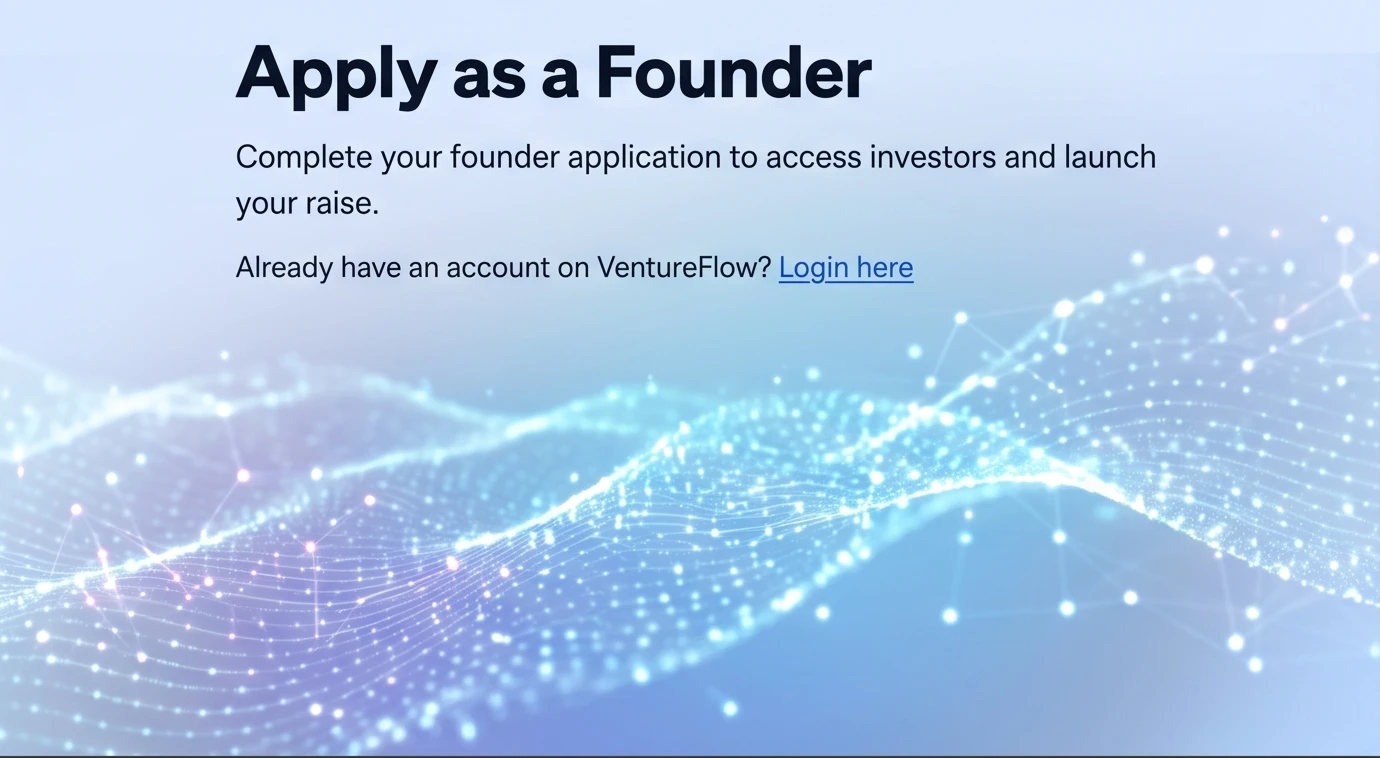
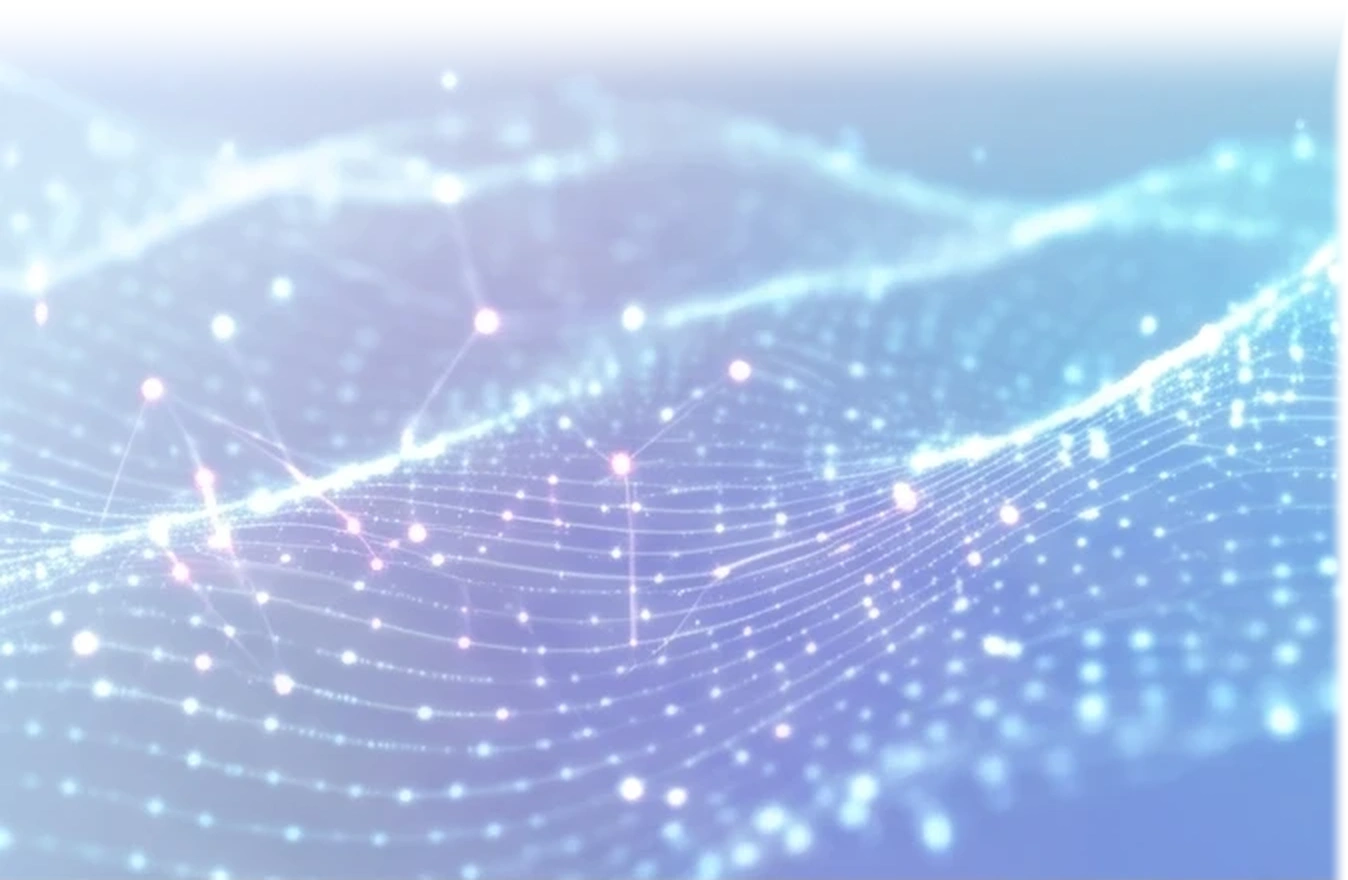
feat(auth): restore reference platform login design and purge legacy extraction notes

diff --git a/components/site/auth-layout.tsx b/components/site/auth-layout.tsx
@@ -29,11 +29,19 @@ export interface AuthLayoutProps {
   children: ReactNode;
 }
 
-/** Soft pastel wash + thin iridescent ribbons that run behind the card. */
+/** Soft pastel wash + thin iridescent ribbons that run behind the card + left-hand light-blue atmospheric tint. */
 function AuthBackground() {
   return (
     <div className="pointer-events-none absolute inset-0 -z-10 overflow-hidden" aria-hidden="true">
+      {/* Right base pastel gradient */}
       <div className="absolute inset-0 bg-[linear-gradient(120deg,#eef2ff_0%,#f5f8fe_34%,#f4f8fe_64%,#ecf3fe_100%)]" />
+
+      {/* Left-hand light blue atmospheric tint matching reference */}
+      <div className="hidden lg:block absolute inset-y-0 left-0 w-[48.8%] bg-[linear-gradient(180deg,#d8e7fe_0%,#e4effe_45%,#edf4fe_100%)]" />
+
+      {/* Center vertical dividing rule matching reference */}
+      <div className="hidden lg:block absolute left-[48.8%] inset-y-0 w-px bg-slate-200/80" />
+
       {/* cool halo behind the card */}
       <div className="absolute right-[-6%] top-[8%] h-[80%] w-[58%] rounded-full bg-[radial-gradient(closest-side,rgba(160,184,255,0.30),rgba(196,210,255,0.14)_55%,transparent_100%)]" />
       {/* faint blush bottom-right */}
@@ -97,30 +105,30 @@ function AuthBackground() {
   );
 }
 
-/** "VentureFlow by Veyron X" lock-up — matching reference design */
-function AuthBrandPill() {
+/** "VentureFlow by Veyron X" lock-up pill — matching reference design */
+export function AuthBrandPill() {
   return (
     <Link
       href="/"
       aria-label="VentureFlow by Veyron X home"
-      className="group inline-flex items-center gap-3.5 py-1 text-slate-900 transition-opacity hover:opacity-95"
+      className="group inline-flex items-center gap-2.5 rounded-full border border-slate-200/80 bg-white/95 px-3.5 py-1.5 sm:px-4 sm:py-2 text-slate-900 shadow-[0_2px_12px_rgba(0,0,0,0.05)] backdrop-blur-xs transition-all hover:bg-white hover:shadow-sm"
     >
-      <span className="relative block h-11 w-11 sm:h-13 sm:w-13 shrink-0 transition-transform group-hover:scale-105 shadow-md rounded-full overflow-hidden">
+      <span className="relative block size-7 sm:size-8 shrink-0 overflow-hidden rounded-full shadow-2xs transition-transform group-hover:scale-105">
         <Image
           src="/logo/vf-mark.png"
-          alt="VentureFlow by Veyron X"
-          width={56}
-          height={56}
+          alt="VentureFlow"
+          width={32}
+          height={32}
           priority
-          className="h-full w-full rounded-full object-cover"
+          className="size-full rounded-full object-cover"
         />
       </span>
-      <span className="flex select-none items-baseline gap-2 text-slate-900" aria-hidden="true">
-        <span className="text-2xl sm:text-[1.75rem] font-extrabold tracking-tight text-slate-900">VentureFlow</span>
-        <span className="text-base sm:text-lg font-medium text-slate-500">by</span>
-        <span className="inline-flex items-baseline gap-1 text-2xl sm:text-[1.75rem] font-extrabold tracking-tight text-slate-900">
+      <span className="flex select-none items-baseline gap-1.5 text-slate-900" aria-hidden="true">
+        <span className="text-base sm:text-lg font-bold tracking-tight text-slate-900">VentureFlow</span>
+        <span className="text-xs sm:text-sm font-normal text-slate-400">by</span>
+        <span className="inline-flex items-baseline gap-0.5 text-base sm:text-lg font-bold tracking-tight text-slate-900">
           <span>Veyron</span>
-          <svg viewBox="0 0 24 24" className="h-[0.8em] w-[0.8em] inline-block fill-current translate-y-[0.05em]" aria-hidden="true">
+          <svg viewBox="0 0 24 24" className="h-[0.75em] w-[0.75em] inline-block fill-current translate-y-[0.05em]" aria-hidden="true">
             <path d="M18.244 2.25h3.308l-7.227 8.26 8.502 11.24H16.17l-5.214-6.817L4.99 21.75H1.68l7.73-8.835L1.254 2.25H8.08l4.713 6.231zm-1.161 17.52h1.833L7.084 4.126H5.117z" />
           </svg>
         </span>
@@ -159,14 +167,14 @@ export function AuthLayout({
         <AuthBrandPill />
       </header>
 
-      <main className="relative z-10 grid flex-1 grid-cols-1 gap-8 px-4 pb-8 pt-4 sm:px-8 lg:grid-cols-[46fr_54fr] lg:items-center lg:gap-6 lg:px-10 lg:py-2 lg:overflow-hidden">
+      <main className="relative z-10 grid flex-1 grid-cols-1 gap-8 px-4 pb-8 pt-4 sm:px-8 lg:grid-cols-[48.8fr_51.2fr] lg:items-center lg:gap-0 lg:px-0 lg:py-2 lg:overflow-hidden">
         {/* LEFT — role-specific heading & glowing network wave */}
-        <section className="relative flex flex-col text-left lg:pl-[min(5vw,90px)] lg:pr-6 z-10">
+        <section className="relative flex flex-col text-left lg:pl-[min(6vw,100px)] lg:pr-10 z-10">
           {eyebrow && (
             <p className="mb-2 text-xs font-semibold uppercase tracking-wider text-blue-600">{eyebrow}</p>
           )}
 
-          <h1 className="text-3xl sm:text-4xl lg:text-[2.75rem] font-extrabold leading-[1.15] tracking-tight text-slate-900">
+          <h1 className="text-3xl sm:text-4xl lg:text-[2.65rem] font-extrabold leading-[1.15] tracking-tight text-slate-900">
             {title}
           </h1>
 
@@ -219,15 +227,15 @@ export function AuthLayout({
         </section>
 
         {/* RIGHT — white authentication card */}
-        <section className="lg:self-center lg:pr-[min(5vw,90px)] flex justify-center lg:justify-end z-10">
-          <div className="relative w-full max-w-[560px]">
+        <section className="lg:self-center lg:pr-[min(6vw,100px)] lg:pl-10 flex justify-center lg:justify-end z-10">
+          <div className="relative w-full max-w-[550px]">
             <AuthCard>{children}</AuthCard>
           </div>
         </section>
       </main>
 
       {/* VentureFlow glowing wave artwork: anchored to bottom-left */}
-      <AuthArtwork className="hidden sm:block absolute bottom-0 left-0 w-full max-w-[48vw] pointer-events-none z-0" />
+      <AuthArtwork className="hidden sm:block absolute bottom-0 left-0 w-full max-w-[48.8vw] pointer-events-none z-0" />
     </div>
   );
 }

diff --git a/components/sections/Hero.tsx b/components/sections/Hero.tsx
@@ -77,7 +77,7 @@ const cards: Card[] = [
   {
     key: "google",
     side: "left",
-    desktop: "top-4 lg:left-[-110px] xl:left-[-125px] 2xl:left-[-135px] hidden lg:block w-[145px] xl:w-[155px]",
+    desktop: "top-4 lg:left-[-110px] xl:left-[-95px] 2xl:left-[-95px] hidden lg:block w-[145px] xl:w-[155px]",
     body: (
       <>
         <div className="flex items-center justify-between">
@@ -101,7 +101,7 @@ const cards: Card[] = [
   {
     key: "apple",
     side: "right",
-    desktop: "top-3 lg:right-[-110px] xl:right-[-125px] 2xl:right-[-135px] hidden lg:block w-[145px] xl:w-[155px]",
+    desktop: "top-3 lg:right-[-110px] xl:right-[-105px] 2xl:right-[-115px] hidden lg:block w-[145px] xl:w-[155px]",
     body: (
       <>
         <div className="flex items-center justify-between">
@@ -125,7 +125,7 @@ const cards: Card[] = [
   {
     key: "tesla",
     side: "left",
-    desktop: "top-[36%] lg:left-[-118px] xl:left-[-130px] 2xl:left-[-140px] hidden lg:block w-[150px] xl:w-[165px]",
+    desktop: "top-[36%] lg:left-[-118px] xl:left-[-90px] 2xl:left-[-90px] hidden lg:block w-[150px] xl:w-[165px]",
     body: (
       <>
         <div className="flex items-center justify-between">
@@ -149,7 +149,7 @@ const cards: Card[] = [
   {
     key: "research",
     side: "right",
-    desktop: "top-[35%] lg:right-[-118px] xl:right-[-125px] 2xl:right-[-135px] hidden lg:block w-[150px] xl:w-[165px]",
+    desktop: "top-[35%] lg:right-[-118px] xl:right-[-100px] 2xl:right-[-105px] hidden lg:block w-[150px] xl:w-[165px]",
     body: (
       <>
         <div className="flex items-center gap-1.5">
@@ -165,7 +165,7 @@ const cards: Card[] = [
   {
     key: "space",
     side: "left",
-    desktop: "bottom-6 lg:left-[-118px] xl:left-[-130px] 2xl:left-[-142px] hidden lg:block w-[155px] xl:w-[175px]",
+    desktop: "bottom-6 lg:left-[-118px] xl:left-[-90px] 2xl:left-[-92px] hidden lg:block w-[155px] xl:w-[175px]",
     body: (
       <>
         <p className="text-[10px] font-bold uppercase tracking-wider text-slate-500">Space Activity</p>
@@ -177,7 +177,7 @@ const cards: Card[] = [
   {
     key: "rank",
     side: "right",
-    desktop: "bottom-5 lg:right-[-110px] xl:right-[-120px] 2xl:right-[-130px] hidden lg:block w-[145px] xl:w-[165px]",
+    desktop: "bottom-5 lg:right-[-110px] xl:right-[-100px] 2xl:right-[-110px] hidden lg:block w-[145px] xl:w-[165px]",
     body: (
       <>
         <div className="flex items-center justify-between">

diff --git a/components/site/login-form.tsx b/components/site/login-form.tsx
@@ -12,7 +12,6 @@ import {
   AUTH_LABEL_GAP,
   AUTH_STACK_GAP,
   FieldLabel,
-  InputField,
 } from "./input-field";
 import { Loader2 } from "lucide-react";
 import { sanitizeRedirectUrl } from "@/lib/utils";
@@ -396,16 +395,19 @@ function LoginFormInner({ role = "founder" }: { role?: "founder" | "investor" })
               </button>
             )}
           </div>
-          <InputField
+          <input
             id="email"
-            label="Enter your email address"
-            hideLabel={true}
+            name="email"
+            type="email"
+            autoComplete="email"
             placeholder="Email"
+            required
             value={email}
-            onChange={(val) => {
-              setEmail(val);
+            onChange={(e) => {
+              setEmail(e.target.value);
               if (errorMessage) setErrorMessage(null);
             }}
+            className={AUTH_INPUT_CLASS}
           />
         </div>
       ) : (

diff --git a/app/(marketing)/login/page.tsx b/app/(marketing)/login/page.tsx
@@ -1,6 +1,6 @@
 import type { Metadata } from "next";
 import { Suspense } from "react";
-import LoginPage from "@/components/sections/Login";
+import { LoginFlowReader } from "./LoginFlowReader";
 
 export const metadata: Metadata = {
   title: "Log In or Sign Up | VentureFlow by Veyron X",
@@ -19,12 +19,12 @@ export default function LoginRoute() {
   return (
     <Suspense
       fallback={
-        <div className="min-h-screen bg-[#f8faff] flex items-center justify-center text-xs text-slate-400">
+        <div className="min-h-screen bg-[#f4f7fb] flex items-center justify-center text-xs text-slate-400">
           Loading VentureFlow authentication...
         </div>
       }
     >
-      <LoginPage />
+      <LoginFlowReader />
     </Suspense>
   );
 }

diff --git a/components/site/auth-artwork.tsx b/components/site/auth-artwork.tsx
@@ -12,13 +12,13 @@ export function AuthArtwork({ className = "" }: { className?: string }) {
   return (
     <div
       className={cn("pointer-events-none relative select-none overflow-hidden", className)}
-      style={{ aspectRatio: "1380 / 758" }}
+      style={{ aspectRatio: "1348 / 880" }}
     >
       <Image
         src="/images/auth-wave.webp"
         alt=""
-        width={1380}
-        height={758}
+        width={1348}
+        height={880}
         priority
         sizes="(min-width: 1024px) 50vw, 100vw"
         className="h-full w-full object-cover object-left-bottom"

diff --git a/app/(marketing)/login/LoginFlowReader.tsx b/app/(marketing)/login/LoginFlowReader.tsx
@@ -18,7 +18,7 @@ export function LoginFlowReader() {
 
 function LoginFlowView() {
   const params = useSearchParams();
-  const flow = params.get("flow") === "login" ? "login" : "signup";
+  const flow = params.get("flow") === "signup" ? "signup" : "login";
   const role = params.get("role") === "investor" ? "investor" : "founder";
 
   if (flow === "signup") {

diff --git a/DEPLOYMENT.md b/DEPLOYMENT.md
@@ -1,6 +1,6 @@
 # Multi-Platform Deployment & Budget Architecture Guide
 
-This guide details how to deploy and maintain **VentureFlow / VentureFlow** across various hosting platforms (**Vercel, Netlify, Hostinger, Render, Railway, Fly.io, or any standard Linux VPS**) with **zero vendor lock-in** and a **$0 free-tier first** strategy.
+This guide details how to deploy and maintain **VentureFlow by Veyron X** across various hosting platforms (**Vercel, Netlify, Hostinger, Render, Railway, Fly.io, or any standard Linux VPS**) with **zero vendor lock-in** and a **$0 free-tier first** strategy.
 
 ---
 
